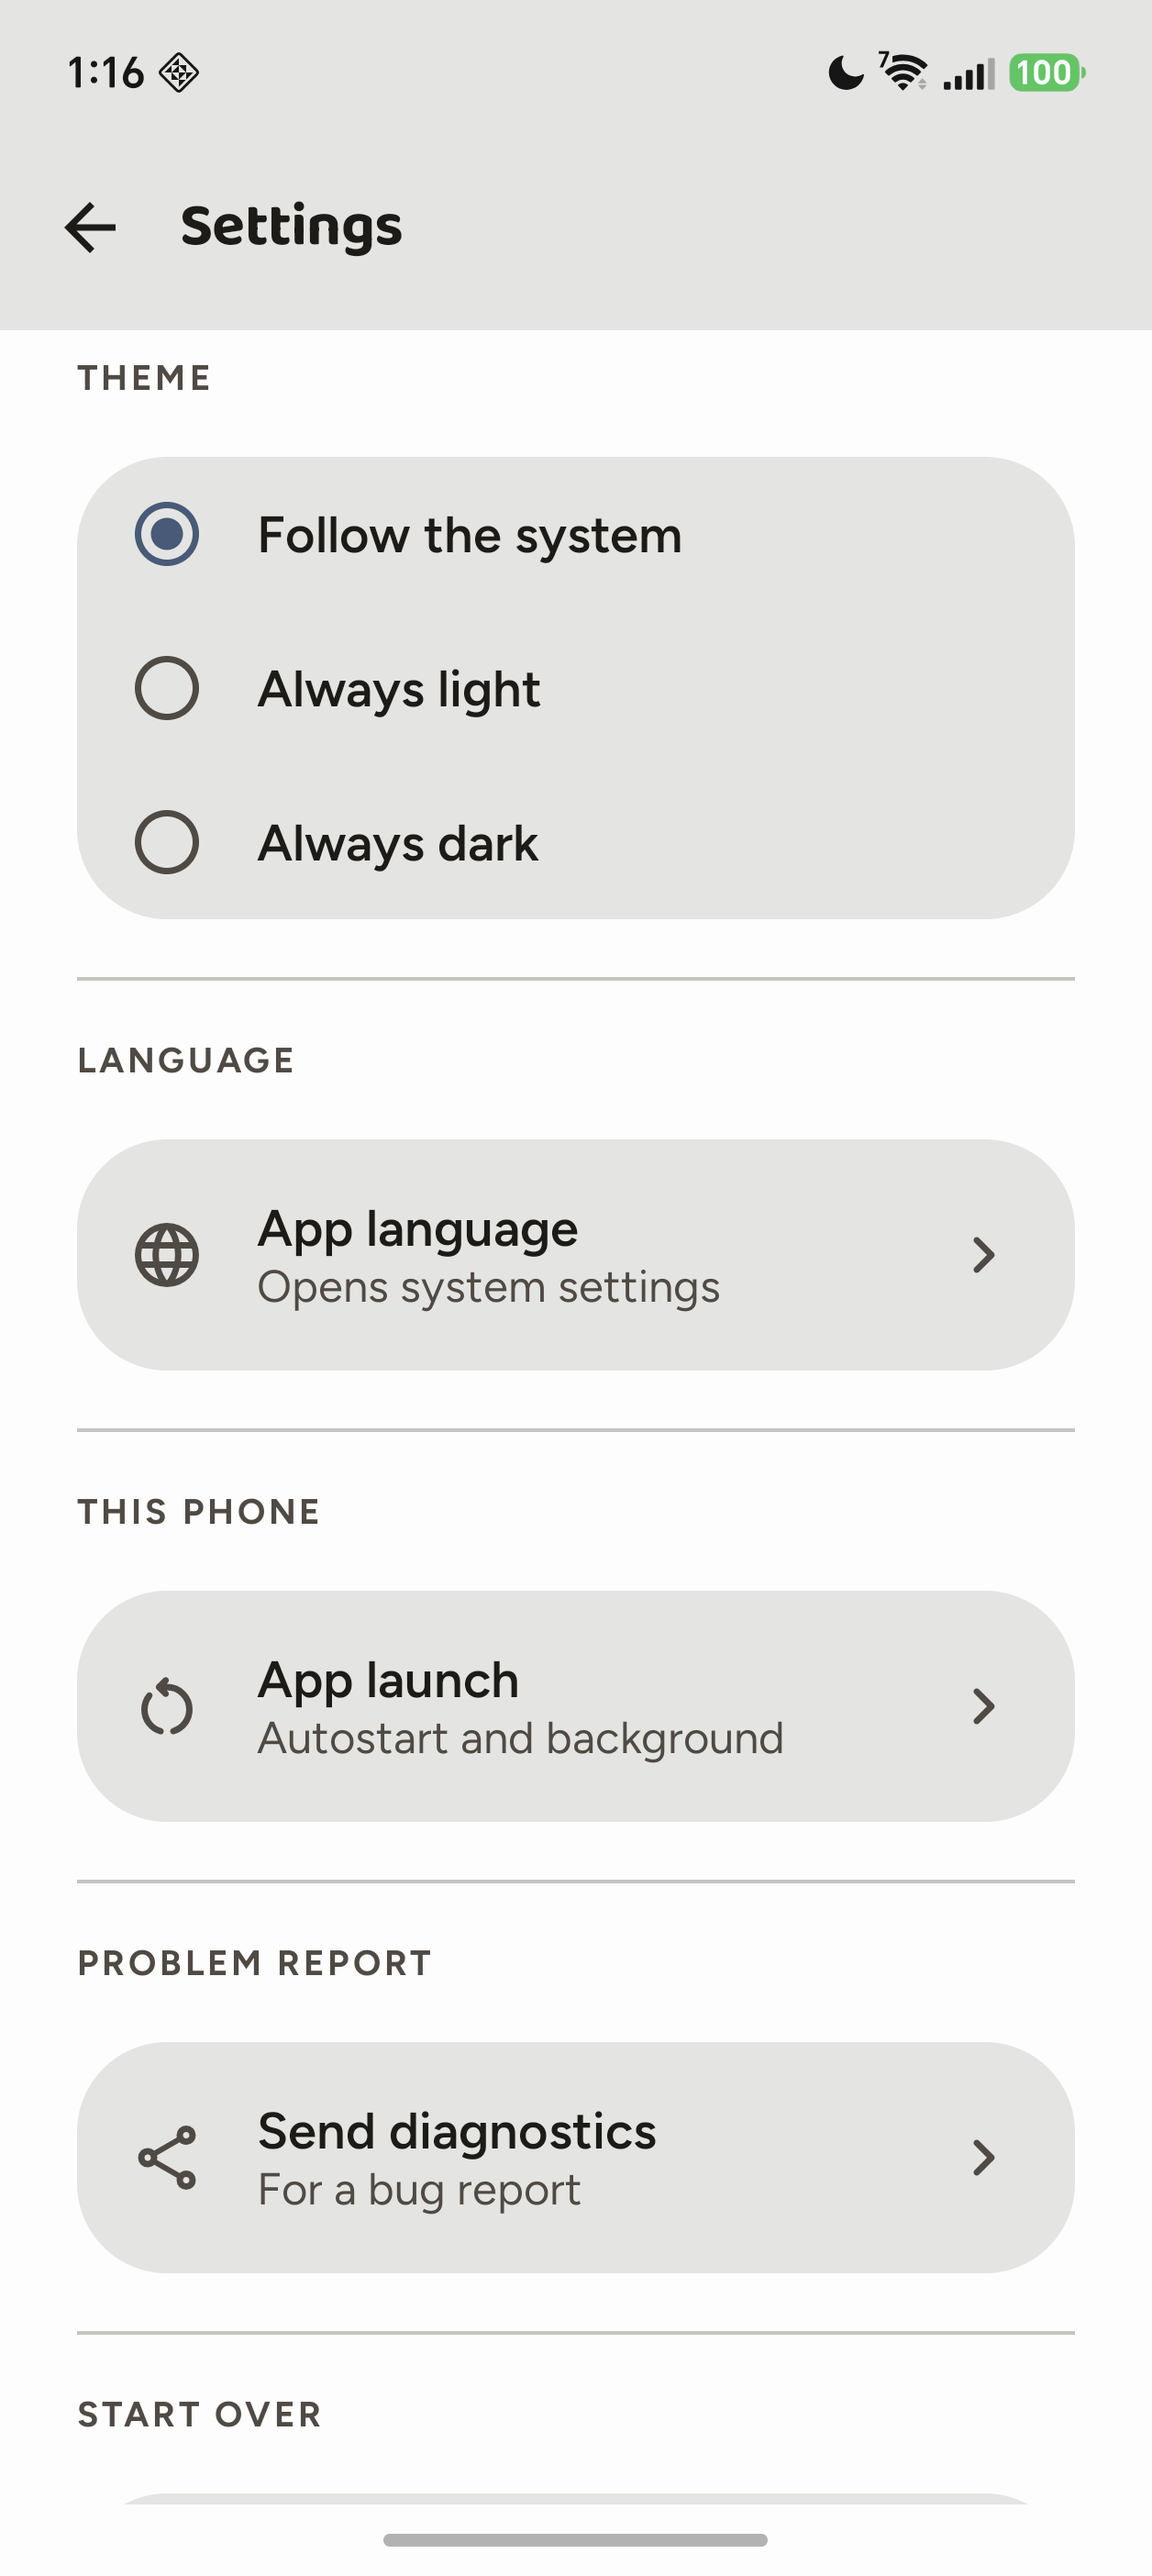
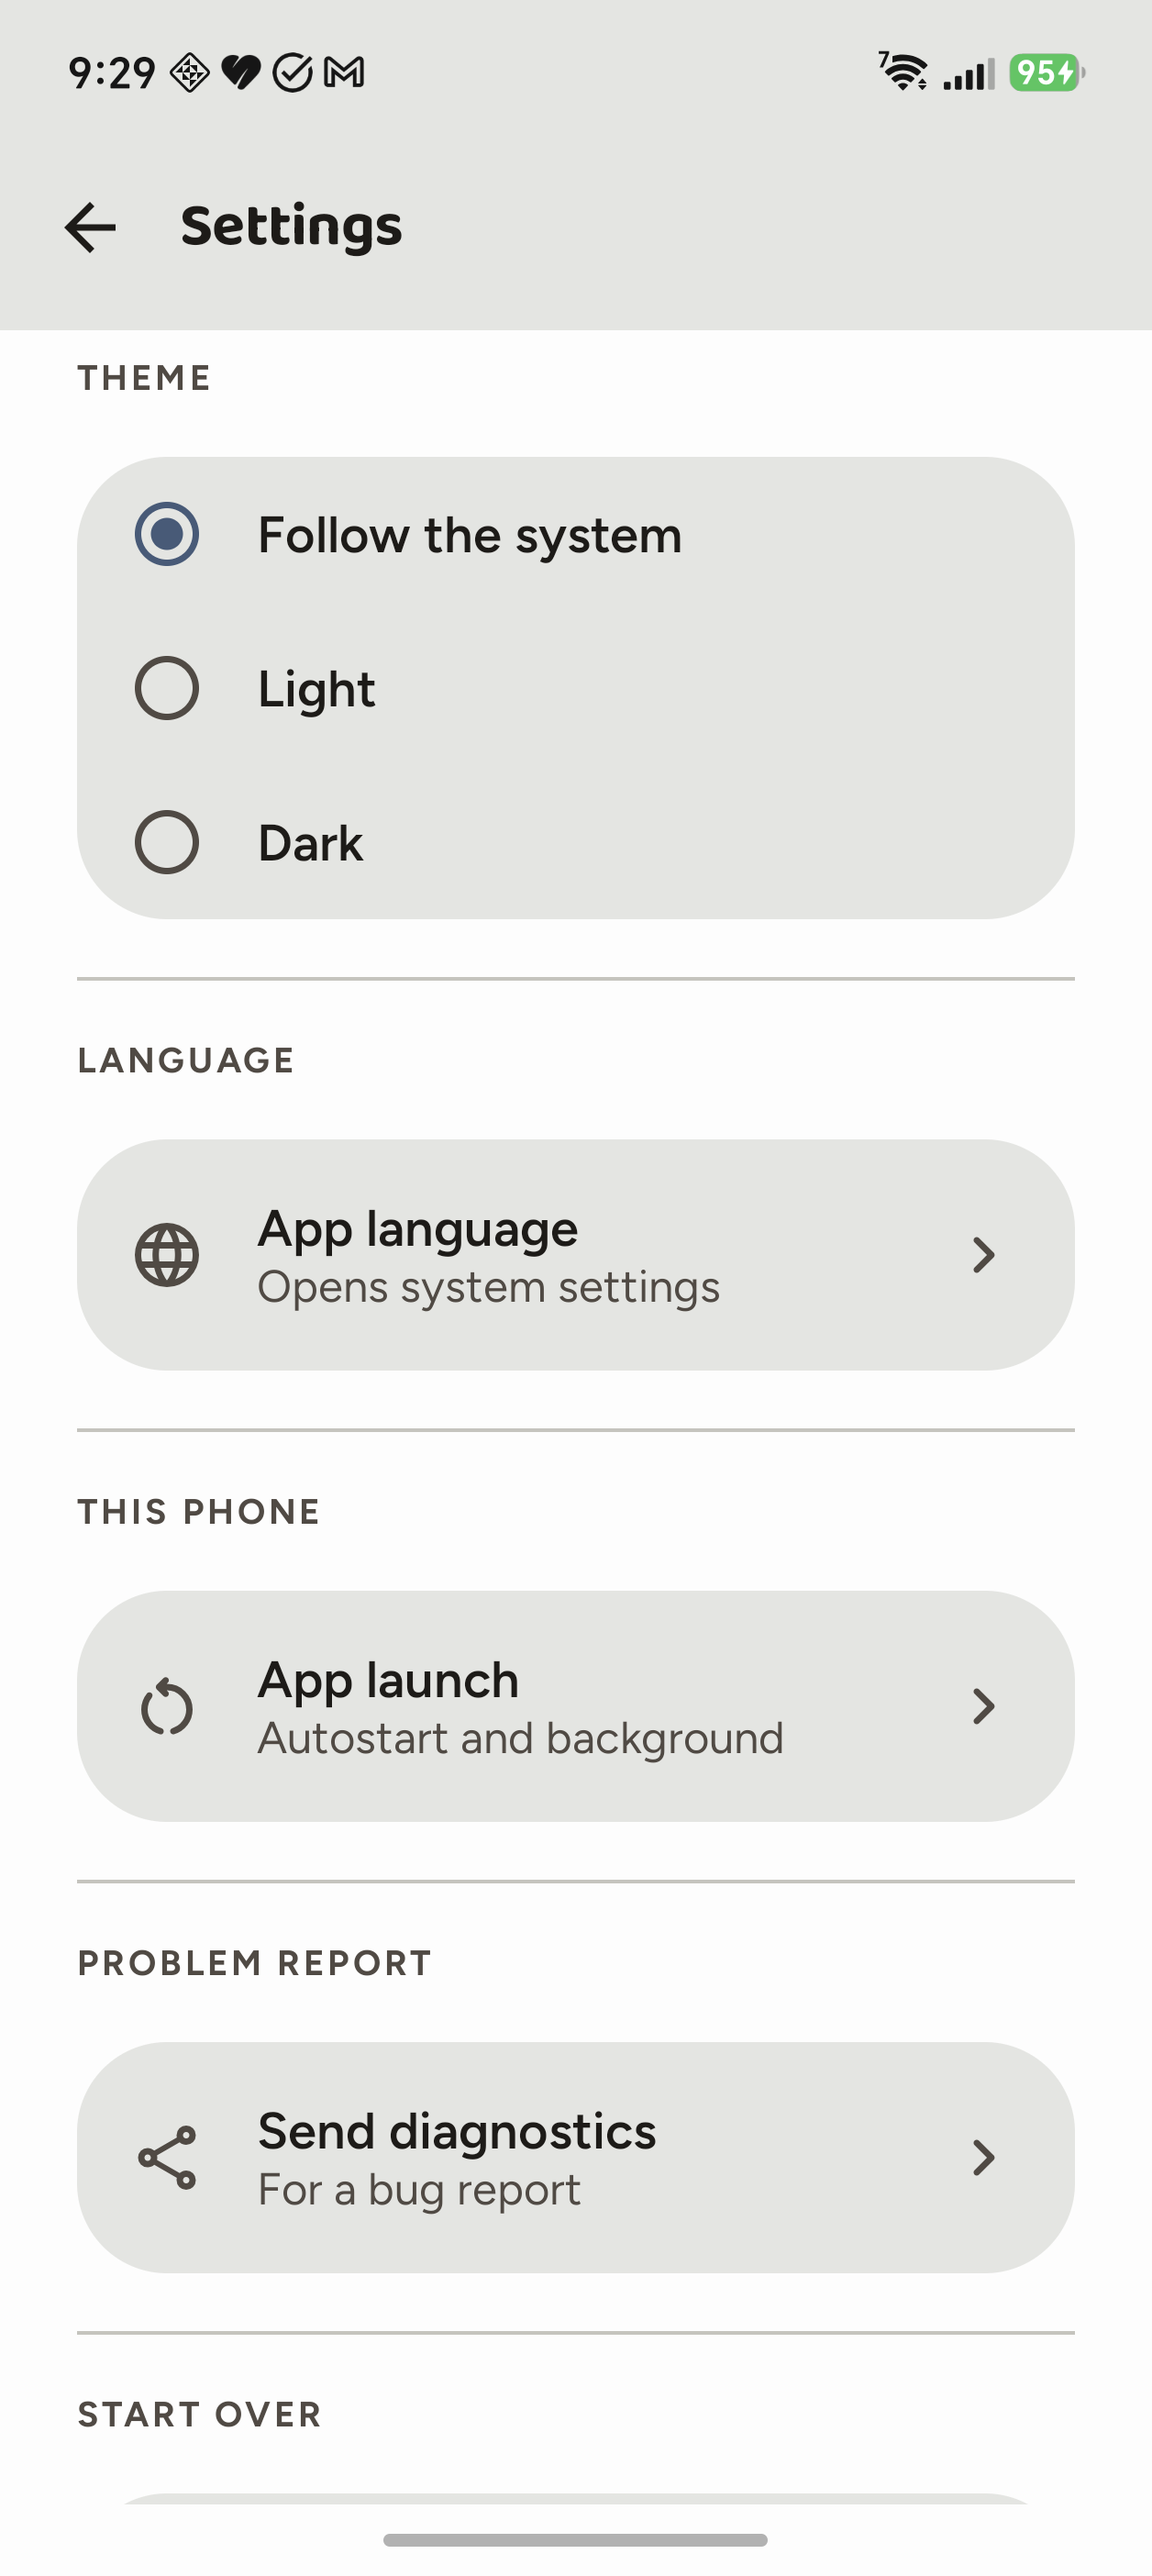
Light and Dark, since Russian never said "Always"
The three languages disagreed: en and uk carried "Always", ru did not.
Settled toward the shorter form the native speaker uses - Follow the system
/ Light / Dark, and Світла / Темна - which also matches how most apps label
this and costs the row nothing.

Two tests broke on it and were RIGHT to, but for the wrong reason: they
matched onNodeWithText("Always dark") rather than the string resource, so a
wording change read as a broken radio group. Fixed to go through
getString, and the four other hardcoded UI strings in the suite went with
them - there are none left.

The Settings screenshot is retaken, since it had just been refreshed with
the old labels in it.

diff --git a/app/src/test/java/com/jemcik/gloaming/ui/ScreensTest.kt b/app/src/test/java/com/jemcik/gloaming/ui/ScreensTest.kt
@@ -389,7 +389,10 @@ class ScreensTest {
                 SettingsScreen(Prefs.THEME_DARK, onThemeMode = {}, onBack = {})
             }
         }
-        compose.onNodeWithText("Always dark").assertIsSelected()
+        // By resource, not by the English words. Hardcoding the copy makes a
+        // wording change look like a broken radio group - which is exactly what
+        // it did when "Always dark" became "Dark".
+        compose.onNodeWithText(ctx().getString(R.string.theme_dark)).assertIsSelected()
     }
 
     @Test
@@ -400,7 +403,7 @@ class ScreensTest {
                 SettingsScreen(Prefs.THEME_SYSTEM, onThemeMode = { picked = it }, onBack = {})
             }
         }
-        compose.onNodeWithText("Always light").performClick()
+        compose.onNodeWithText(ctx().getString(R.string.theme_light)).performClick()
         assertEquals(Prefs.THEME_LIGHT, picked)
     }
 
@@ -430,16 +433,16 @@ class ScreensTest {
                 InterruptionsScreen(onBack = {}, onChanged = {})
             }
         }
-        compose.onNodeWithText("Reminders").assertIsOff()
+        compose.onNodeWithText(ctx().getString(R.string.row_reminders)).assertIsOff()
         // The semantics action rather than a synthetic tap. performClick() does
         // not toggle this row under Robolectric, though it works on the
         // selectable rows in Settings; I did not chase why, because what this
         // test is really asserting is that the ROW carries the click action at
         // all - the switch is only the indicator, not the target.
-        compose.onNodeWithText("Reminders")
+        compose.onNodeWithText(ctx().getString(R.string.row_reminders))
             .performSemanticsAction(SemanticsActions.OnClick)
         compose.waitForIdle()
-        compose.onNodeWithText("Reminders").assertIsOn()
+        compose.onNodeWithText(ctx().getString(R.string.row_reminders)).assertIsOn()
     }
 
     /** A window that contains this instant, whatever hour the suite runs at. */
@@ -569,8 +572,8 @@ class ScreensTest {
                 InterruptionsScreen(onBack = {}, onChanged = {})
             }
         }
-        compose.onNodeWithText("Alarms and timers").assertExists()
-        compose.onNodeWithText("Kept on so your alarm still wakes you").assertExists()
+        compose.onNodeWithText(ctx().getString(R.string.row_alarms)).assertExists()
+        compose.onNodeWithText(ctx().getString(R.string.row_alarms_why)).assertExists()
     }
     // ---------- the wake handle and "at your alarm" are one state ----------
 
